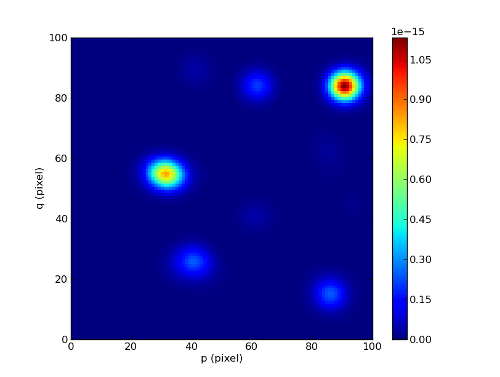
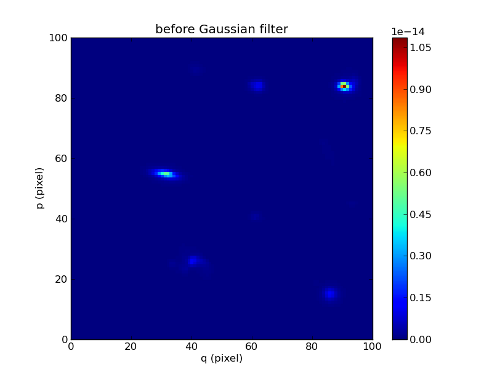
update obj documentation (warning, dim of figures)
Former-commit-id: c0408eb48d05a53f8b2640045bff65d9635b9075

diff --git a/obj/source/user_manual_cube.rst b/obj/source/user_manual_cube.rst
@@ -1,10 +1,6 @@
 Cube object
 ***********
 
-.. warning::
-
-   Draft version, still incomplete
-
 Cube python object can handle datacubes which have a regular grid format in both spatail and spectral axis.
 Variance information can also be taken into account as well as bad pixels. 
 Cube object can be read and written to disk as a multi-extension FITS file.
@@ -231,8 +227,7 @@ the spectrum iterator.::
  >>> cont_flux.plot(title="continuum mean flux")
  >>> ha_flux.plot(title="Ha line total flux")
  >>> import numpy as np
- >>> ha_ew.mask_selection(np.where(ima1.data<0.5))
- >>> # ha_ew.plot(vmin=-15,vmax=15)
+ >>> ha_ew.mask_selection(np.where((ima1.data*ima1.fscale)<0.4*1E-18))
  >>> ha_ew.plot(title="Ha line ew")
  
 .. image::  user_manual_cube_images/recima6.png
@@ -252,10 +247,12 @@ monochromatic images and we process each of them. For each monochromatic image w
  >>> cube2 = cube.clone()
  >>> for ima,k in iter_ima(cube, index=True):
  >>>   cube2[k,:,:] = ima.gaussian_filter()
- >>> cube2.sum(axis=0).plot()
+ >>> cube.sum(axis=0).plot(title='before Gaussian filter')
+ >>> cube2.sum(axis=0).plot(title='after Gaussian filter')
  
-.. figure::  user_manual_cube_images/recima9.png
-   :align:   center 
+.. image::  user_manual_cube_images/recima9.png
+
+.. image::  user_manual_cube_images/recima10.png
 
 
 
